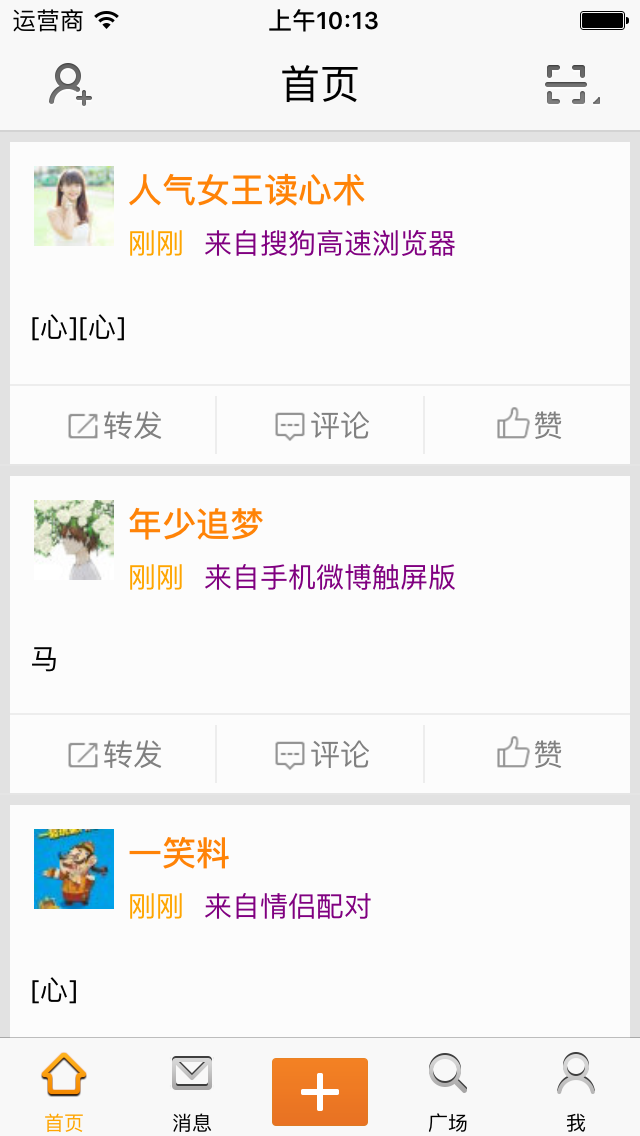
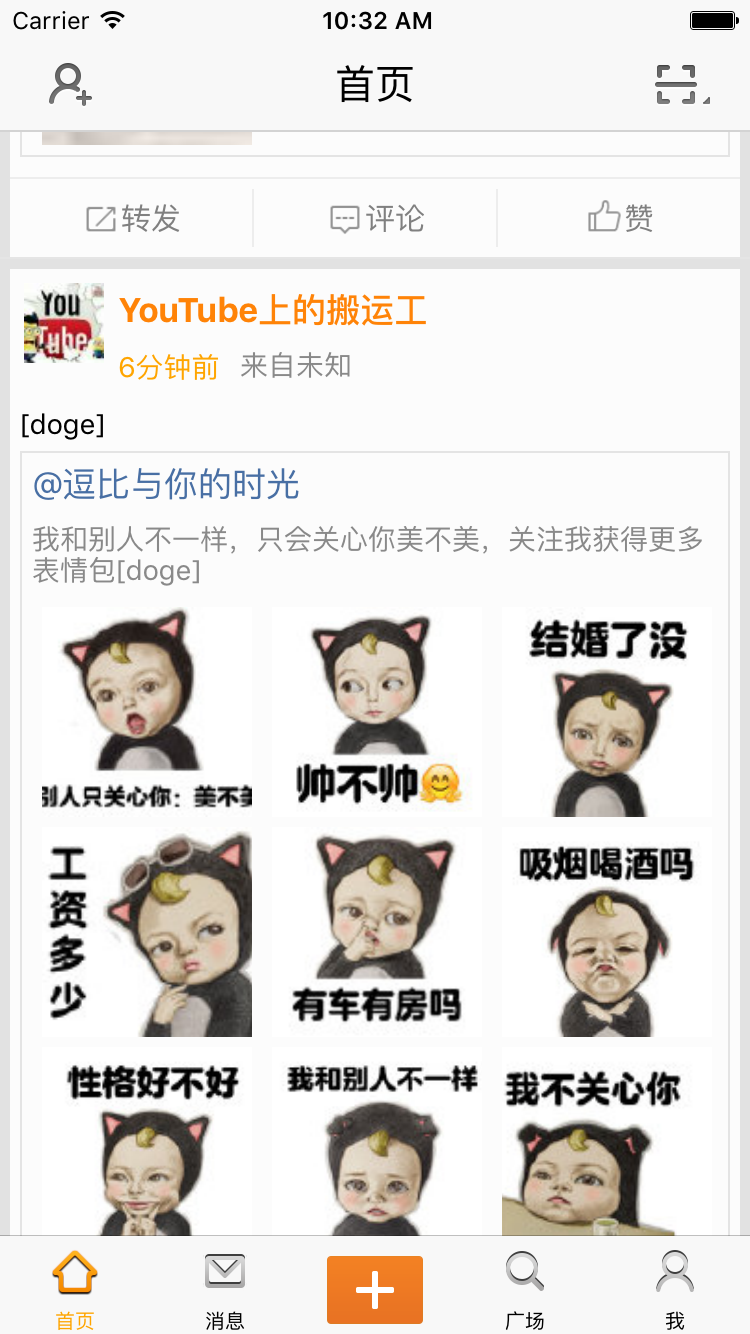
微博列表增加转发微博

Changed region(s): [[0.0, 0.0, 1.0, 1.0]]

diff --git a/SinaWebBo/Home/StatusCell.js b/SinaWebBo/Home/StatusCell.js
@@ -7,6 +7,8 @@ import {
   TouchableHighlight,
 } from 'react-native';
 
+import RetweetView from './RetweetView';
+
 export default class StatusCell extends Component {
   constructor(props) {
     super(props);
@@ -47,8 +49,13 @@ export default class StatusCell extends Component {
   }
 
   render() {
-    let user = this.props.status.user;
-    let status = this.props.status;
+    let { status } = this.props,
+        { user } = status,
+        retweetView;
+
+    if (status.retweeted_status) {
+      retweetView = <RetweetView status={status.retweeted_status} />
+    }
     return (
       <View style={styles.container}>
         <View style={styles.wrapper}>
@@ -73,21 +80,8 @@ export default class StatusCell extends Component {
             </Text>
           </View>
 
-          <Image source={require('../images/Home/timeline_retweet_background.png')}
-            capInsets={{top:0.5,left:0.5,bottom:0.5,right:0.5}}
-            style={{
-              width: 320,
-              height: 200,
-            }}
-            >
-            <View style={{
-              flex: 1,
-              }}>
-              <Text>转发微博内容</Text>
-              <Text>转发微博内容</Text>
-              <Text>转发微博内容</Text>
-            </View>
-          </Image>
+          {/* 转发微博 */}
+          {retweetView}
 
           {/* begin: Three buttons at bottom */}
           <View style={[styles.bottomView, styles.row]}>
@@ -134,8 +128,8 @@ const styles = StyleSheet.create({
   baseInfo: {
     height: 64,
     flexDirection: 'row',
-    marginTop: 10,
-    marginLeft: 10,
+    marginTop: 5,
+    marginLeft: 5,
   },
   portrait: {
     width: 40,
@@ -161,11 +155,12 @@ const styles = StyleSheet.create({
     color: 'orange',
   },
   source: {
-    color: 'purple',
+    color: 'rgb(137,137,137)',
     marginLeft: 10,
   },
   content: {
-    margin: 10,
+    marginHorizontal: 5,
+    marginBottom: 5,
   },
   bottomView: {
     marginTop: 10,

diff --git a/SinaWebBo/Home/RetweetView.js b/SinaWebBo/Home/RetweetView.js
@@ -1,0 +1,81 @@
+import React, { Component } from 'react';
+import {
+  Image,
+  Text,
+  View,
+  StyleSheet,
+  TouchableHighlight,
+} from 'react-native';
+
+import Dimensions from 'Dimensions';
+
+// 窗口宽度
+const WinWidth = Dimensions.get('window').width;
+// 图片间隔
+const ImageMargin = 10;
+// 图片大小
+const ImageWidth = (WinWidth - 20 - 4*ImageMargin)/3;
+
+
+export default class RetweetView extends Component {
+  constructor(props) {
+    super(props);
+  }
+
+  render() {
+    let { status } = this.props,
+      { pic_urls } = status,
+      images = [];
+
+
+    if (pic_urls && pic_urls.length > 0) {
+      pic_urls.forEach((item, index) => {
+        images.push(<Image key={`image_${index}`}
+                           source={{uri: item.thumbnail_pic}}
+                           style={styles.image} />);
+      });
+    }
+
+    return (
+      <View style={styles.container}>
+        <Text style={styles.nickName}>
+          @{status.user.name}
+        </Text>
+        <Text style={styles.content}>
+          {status.text}
+        </Text>
+        <View style={styles.gallery}>
+          {images}
+        </View>
+      </View>
+    );
+  }
+}
+
+const styles = StyleSheet.create({
+  container: {
+    borderWidth: 1,
+    borderColor: 'rgb(228,228,228)',
+    marginHorizontal: 5,
+  },
+  nickName: {
+    color: 'rgb(72,111,164)',
+    fontSize: 17,
+    margin: 5,
+  },
+  content: {
+    margin: 5,
+    color: 'rgb(137,137,137)',
+  },
+  gallery: {
+    flexDirection: 'row',
+    flexWrap: 'wrap',
+    paddingBottom: 5,
+  },
+  image: {
+    width: ImageWidth,
+    height: ImageWidth,
+    marginTop: 5,
+    marginLeft: ImageMargin,
+  }
+});
